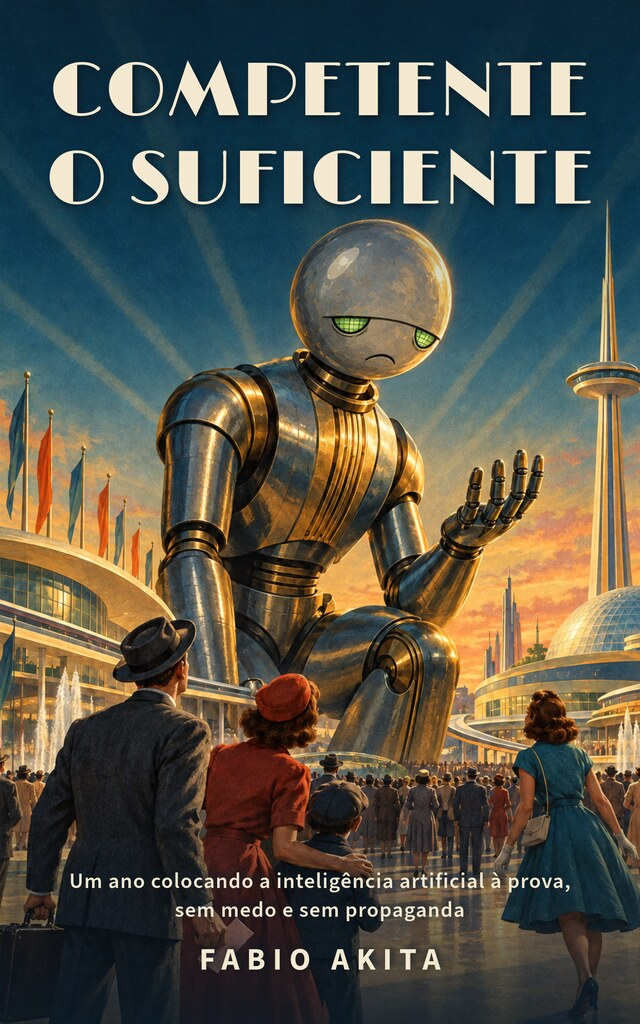
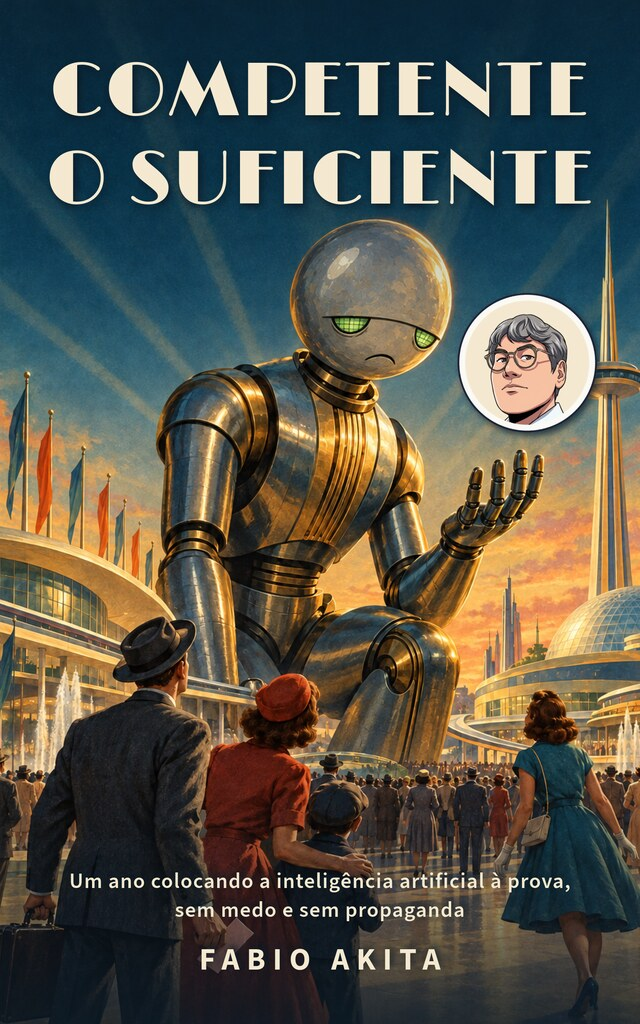
Cover: author sticker (official portrait) beside the robot, both editions; credit line

Changed region(s): [[0.7188, 0.2812, 0.9375, 0.4375]]

diff --git a/scripts/compose_cover.rb b/scripts/compose_cover.rb
@@ -11,6 +11,7 @@
 # Text comes from book/outline.yml (meta.working_title / subtitle / author).
 
 require "yaml"
+require "fileutils"
 
 ROOT = File.expand_path("..", __dir__)
 art, out = ARGV[0], ARGV[1]
@@ -36,6 +37,26 @@ def text_layer(font:, size:, text:, gravity:, offset:, kerning: 0, interline: 0)
    "-fill", CREAM, "-annotate", "+#{offset[0]}+#{offset[1]}", text, ")", "-composite"]
 end
 
+# Author sticker: the official portrait (assets/cover/akita-portrait.png, from the
+# AI-Lair site) as a round die-cut sticker, tilted, in the open sky right of the
+# robot's head. Built here so both editions get the same sticker.
+STICKER = File.join(ROOT, "assets", "cover", "akita-portrait.png")
+def sticker_layer
+  return [] unless File.exist?(STICKER)
+
+  tmp = File.join(ROOT, "build", "cover-sticker.png")
+  FileUtils.mkdir_p(File.dirname(tmp))
+  system("magick", STICKER, "-background", "#F4E9D0", "-alpha", "remove", "-alpha", "off",
+         "-crop", "1180x1180+230+40", "+repage", "-resize", "400x400",
+         "(", "-size", "400x400", "xc:black", "-fill", "white", "-draw", "circle 200,200 200,2", ")",
+         "-alpha", "off", "-compose", "CopyOpacity", "-composite", tmp, exception: true)
+  system("magick", "-size", "452x452", "xc:none", "-fill", "#FBF9F4", "-stroke", "#1B2238", "-strokewidth", "5",
+         "-draw", "circle 226,226 226,6", tmp, "-geometry", "+26+26", "-compose", "over", "-composite",
+         "(", "+clone", "-background", "#0B1A26", "-shadow", "70x10+8+12", ")", "+swap", "-background", "none",
+         "-layers", "merge", "+repage", "-rotate", "-7", tmp, exception: true)
+  ["(", tmp, "-resize", "430x430", ")", "-gravity", "northeast", "-geometry", "+60+700", "-compose", "over", "-composite"]
+end
+
 cmd = ["magick", art, "-resize", "#{W}x#{H}^", "-gravity", "center", "-extent", "#{W}x#{H}",
        # a gentle darkening behind the title keeps it legible on bright skies
        "(", "-size", "#{W}x900", "gradient:#0B1A26B0-#0B1A2600", ")", "-gravity", "north", "-composite",
@@ -45,6 +66,7 @@ cmd = ["magick", art, "-resize", "#{W}x#{H}^", "-gravity", "center", "-extent", 
        "(", "-size", "#{W}x640", "gradient:#0B1A2600-#0B1A26D8", ")", "-gravity", "south", "-composite",
        *text_layer(font: "#{fonts}/SourceSans3-Semibold.otf", size: 54, text: subtitle, gravity: "south", offset: [0, 250], kerning: 2),
        *text_layer(font: "#{fonts}/SourceSans3-Bold.otf", size: 78, text: author, gravity: "south", offset: [0, 110], kerning: 18),
+       *sticker_layer,
        "-alpha", "remove", "-alpha", "off", "-colorspace", "sRGB", "-quality", "95", out]
 system(*cmd, exception: true)
 warn "wrote #{out}"

diff --git a/scripts/gen_back_matter.rb b/scripts/gen_back_matter.rb
@@ -76,9 +76,21 @@ units.each do |u|
     next if seen.include?(path)
 
     seen << path
-    rec = credits[path]
+    # Translated figures (assets/figures/<lang>/x.png) share the canonical record.
+    rec = credits[path] || credits[path.sub(%r{figures/[a-z]{2}/}, "figures/")]
     text = case rec&.dig("kind")
-           when "photo" then rec.dig("credit", "backmatter")
+           when "photo"
+             if lang == "pt"
+               rec.dig("credit", "backmatter")
+             else # built from the record's fields; the stored strings are Portuguese
+               mods = { "redimensionada" => "resized", "recortada" => "cropped", "convertida de SVG para PNG" => "converted from SVG to PNG",
+                        "em tons de cinza" => "converted to grayscale" }
+               src = rec["source"] || {}
+               lic = rec.dig("license", "short").to_s
+               licence = lic.match?(/public domain|\APD|CC0/i) ? "Public domain." : "Licensed #{lic}#{rec.dig('license', 'url') ? ", #{rec.dig('license', 'url')}" : ''}."
+               changes = Array(rec["modifications"]).map { mods.fetch(_1, _1) }
+               %("#{src['title']}", #{rec['author']}. #{src['page_url']}. #{licence}#{changes.empty? ? '' : " Changes: #{changes.join(', ')}."})
+             end
            when "ai_illustration" then "#{CR[:ai]}: #{rec.dig('generation', 'model')}, #{rec.dig('generation', 'date').to_s[0, 10]}."
            else CR[:diagram]
            end
@@ -87,7 +99,7 @@ units.each do |u|
 end
 cover = credits.values.find { _1["file"].to_s.start_with?("assets/cover/") }
 if cover
-  credit_lines.insert(4, "- #{lang == 'en' ? 'Cover' : 'Capa'}: #{CR[:ai]} (#{cover.dig('generation', 'model')}, #{cover.dig('generation', 'date').to_s[0, 10]}); #{lang == 'en' ? 'typography by the author' : 'tipografia do autor'}.")
+  credit_lines.insert(4, "- #{lang == 'en' ? 'Cover' : 'Capa'}: #{CR[:ai]} (#{cover.dig('generation', 'model')}, #{cover.dig('generation', 'date').to_s[0, 10]}); #{lang == 'en' ? "typography by the author; author sticker: the author's official portrait illustration" : 'tipografia do autor; selo com o retrato oficial do autor (ilustração)'}.")
 end
 File.write(File.join(dir, "creditos.md"), credit_lines.join("\n") + "\n")
 warn "wrote glossario.md, bibliografia.md, fontes.md, creditos.md for #{lang}"
